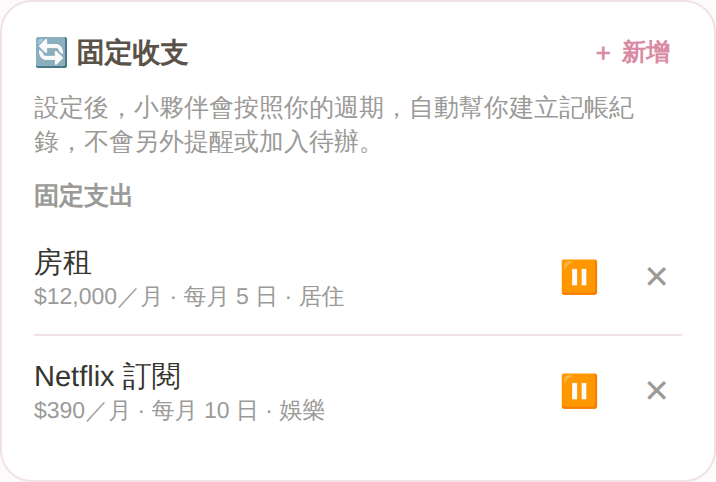
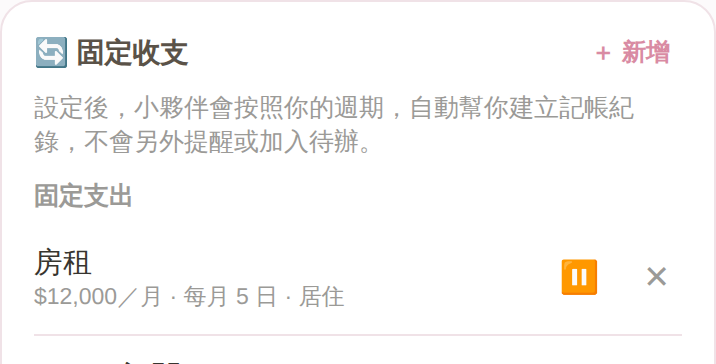
Recapture asset carousel images as tight key-feature crops
Replace all five 我的資產 carousel screenshots (budget, fixed, assets,
debts, ef) with new, tightly-cropped captures that show only each
feature's headline numbers instead of the full scrolling card. This
makes their natural heights land within a ~13px range (previously
varied wildly, from a one-line stat row to a multi-section list),
so remove the .ac-frame wrapper (fixed height, border, background)
that was needed to force uniform sizing — it's no longer necessary
and was creating a double-framed look around images that already
have their own rounded card border baked in.

Claude-Session: https://claude.ai/code/session_01HASXpjPorS2wRhF6Eij8Rn

diff --git a/sales/index.html b/sales/index.html
@@ -139,8 +139,7 @@ header.top{
 .asset-carousel{ display:flex; gap:14px; overflow-x:auto; scroll-snap-type:x mandatory; -webkit-overflow-scrolling:touch; margin-top:8px; padding-bottom:6px; scrollbar-width:none; }
 .asset-carousel::-webkit-scrollbar{ display:none; }
 .asset-carousel .ac-item{ flex:0 0 78%; max-width:260px; scroll-snap-align:start; }
-.asset-carousel .ac-frame{ height:380px; border-radius:12px; border:1px solid var(--line); overflow:hidden; background:var(--paper-raised); }
-.asset-carousel .ac-frame img{ width:100%; height:100%; object-fit:contain; display:block; }
+.asset-carousel img{ width:100%; display:block; }
 .asset-carousel-hint{ margin-top:10px; font-size:12px; color:var(--ink-faint); text-align:center; }
 
 /* ---------- life trace ---------- */
@@ -371,11 +370,11 @@ footer p{ font-size:12.5px; color:var(--ink-faint); }
       </div>
       <div style="grid-column:1 / -1;">
         <div class="asset-carousel">
-          <div class="ac-item"><div class="ac-frame"><img src="img/budget.png" alt="生活小夥伴每月預算分配畫面"></div></div>
-          <div class="ac-item"><div class="ac-frame"><img src="img/fixed.png" alt="生活小夥伴固定收支設定畫面"></div></div>
-          <div class="ac-item"><div class="ac-frame"><img src="img/assets.png" alt="生活小夥伴資產盤點畫面"></div></div>
-          <div class="ac-item"><div class="ac-frame"><img src="img/debts.png" alt="生活小夥伴負債與還款進度畫面"></div></div>
-          <div class="ac-item"><div class="ac-frame"><img src="img/ef.png" alt="生活小夥伴緊急預備金規劃畫面"></div></div>
+          <div class="ac-item"><img src="img/budget.png" alt="生活小夥伴每月預算分配重點畫面"></div>
+          <div class="ac-item"><img src="img/fixed.png" alt="生活小夥伴固定收支設定重點畫面"></div>
+          <div class="ac-item"><img src="img/assets.png" alt="生活小夥伴資產盤點重點畫面"></div>
+          <div class="ac-item"><img src="img/debts.png" alt="生活小夥伴負債與還款進度重點畫面"></div>
+          <div class="ac-item"><img src="img/ef.png" alt="生活小夥伴緊急預備金規劃重點畫面"></div>
         </div>
         <p class="asset-carousel-hint">👉 左右滑動查看更多畫面</p>
       </div>
